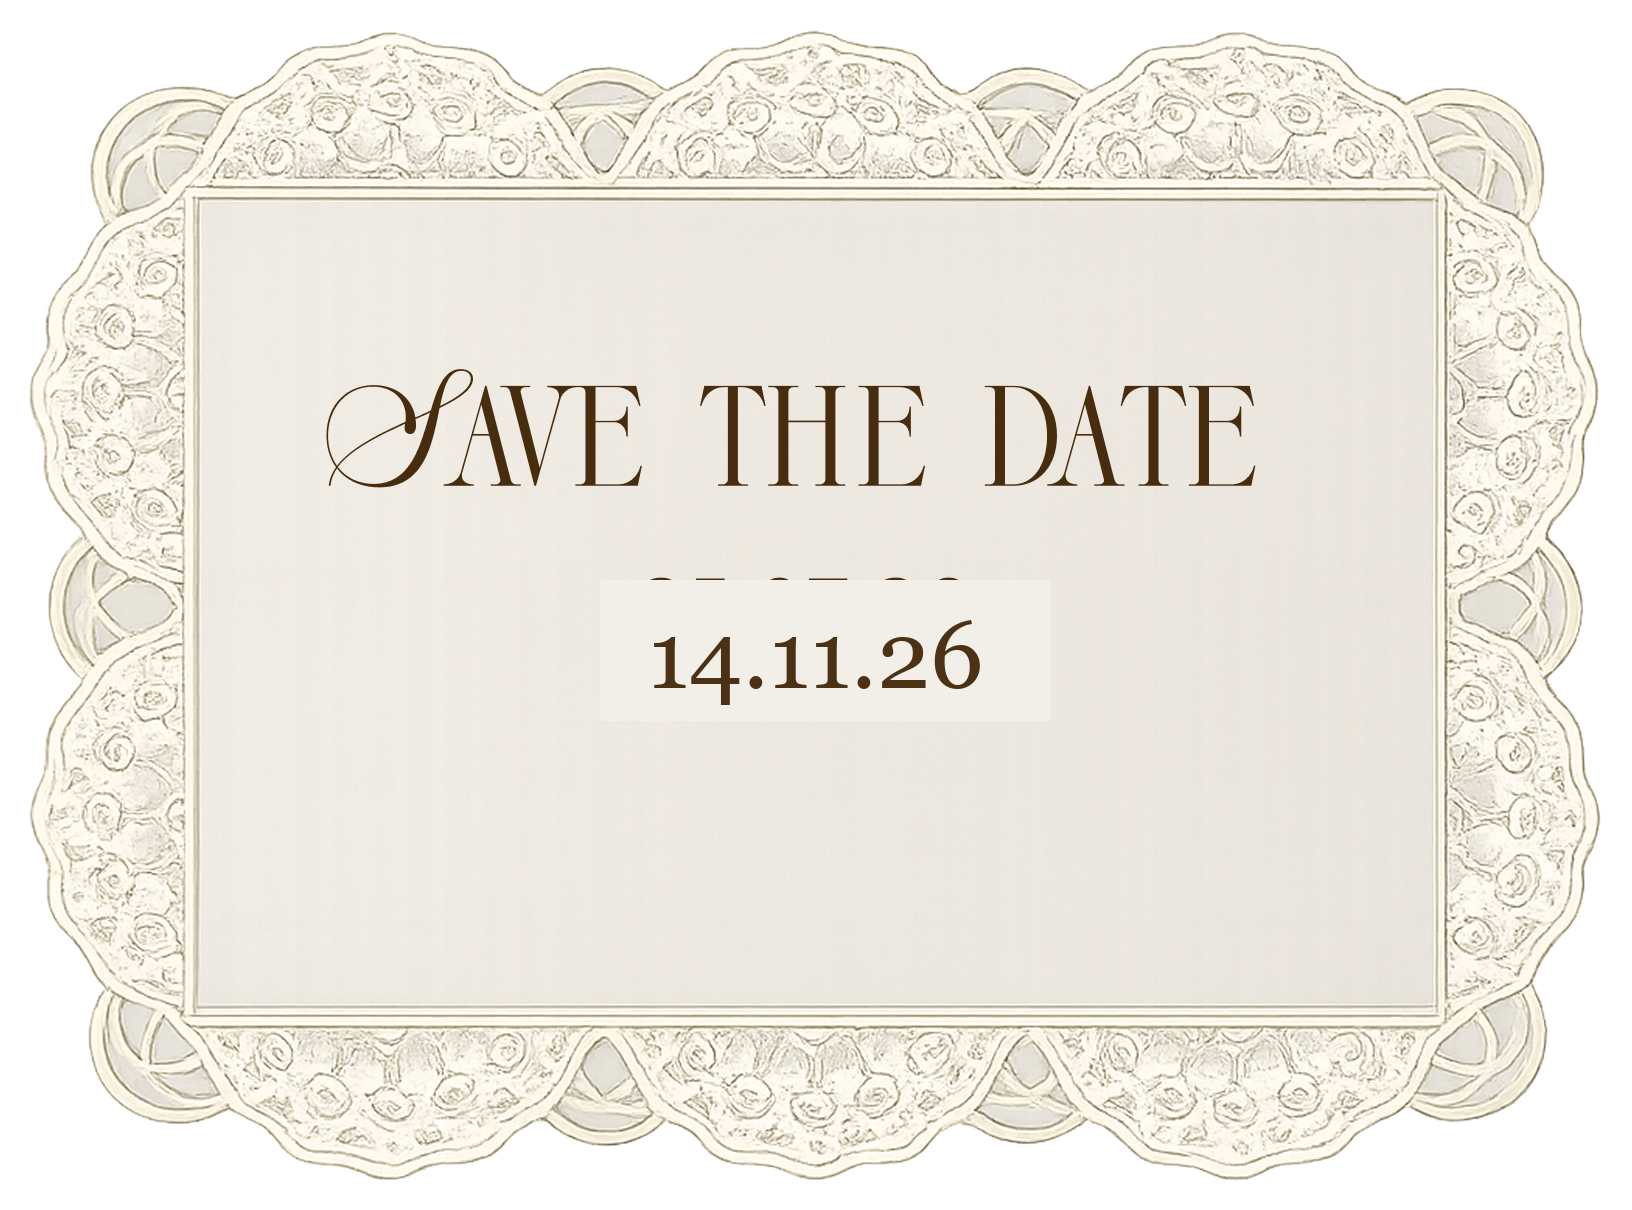
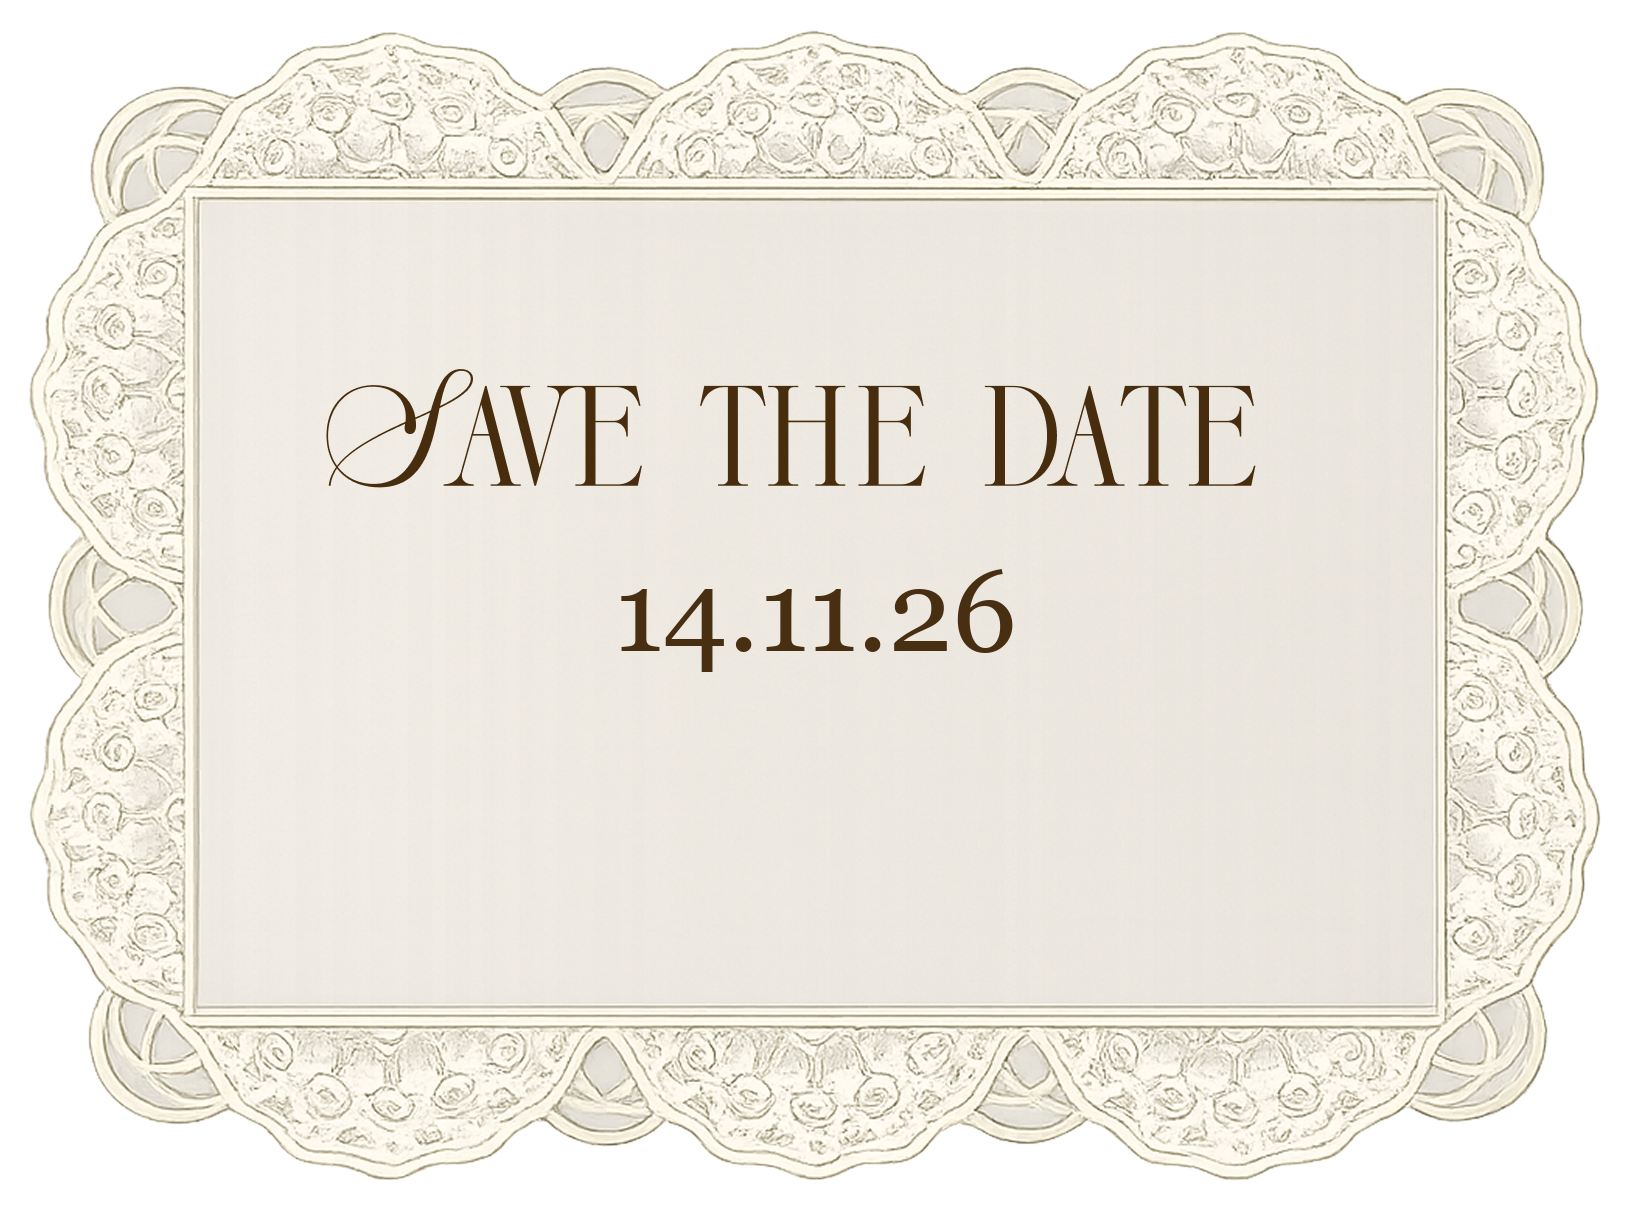
fix: remove all other envelope pics keeping only clean Save the Date card with seamless 14.11.26 date, and enlarge honour text

Changed region(s): [[0.375, 0.4587, 0.625, 0.581]]

diff --git a/app/globals.css b/app/globals.css
@@ -80,9 +80,9 @@ a { color: inherit; text-decoration: none; }
 .count-tile { display: flex; align-items: center; justify-content: center; width: 64px; height: 64px; border-radius: 6px; background: var(--card); box-shadow: 0 2px 10px rgba(90,58,26,.08); }
 .count-tile span { font-family: 'BrownBulgary', 'Sedan', serif; letter-spacing: .02em; font-size: 24px; line-height: 1.3333; animation: tile-pulse .35s ease; }
 .count-label { margin-top: 8px; font-size: 10px; letter-spacing: .2em; opacity: .7; }
-.wishes-section { position: relative; z-index: 2; margin: 48px auto 0; max-width: 292px; }
+.wishes-section { position: relative; z-index: 2; margin: 48px auto 0; max-width: 360px; }
 .wishes-section > p { margin-top: 24px; font-size: 11px; line-height: 1.625; letter-spacing: .15em; text-align: center; }
-.honour-text { font-style: italic; font-size: 12.5px !important; letter-spacing: .04em !important; opacity: .85; }
+.honour-text { font-style: italic; font-size: 16.5px !important; line-height: 1.55 !important; letter-spacing: .02em !important; opacity: .95; color: var(--foreground); margin-top: 28px !important; margin-bottom: 8px; }
 .dua { position: relative; margin-top: 48px; margin-bottom: 16px; padding-inline: 16px; display: flex; justify-content: center; }
 .dua img { width: 100%; max-width: 360px; }
 .envelope { position: relative; width: 100%; max-width: 420px; margin: 64px auto 0; }
@@ -92,12 +92,7 @@ a { color: inherit; text-decoration: none; }
 .envelope-front { transform: translateY(30%); pointer-events: none; transition-delay: .6s; }
 .envelope-piece { position: absolute; opacity: 0; transition: opacity 1s, transform 1.2s cubic-bezier(.2,.7,.2,1); }
 .envelope-piece img { width: 100%; user-select: none; filter: drop-shadow(0 10px 18px rgba(60,35,15,.25)); animation: float 5s ease-in-out infinite; }
-.tilted { left: -4%; top: 6%; width: 42%; transform: translateX(-60px) rotate(-18deg); transition-delay: .15s; }
-.oval { left: 28%; top: 2%; width: 40%; transform: translateY(-20px) scale(.85); transition-delay: .25s; }
-.oval img { animation-delay: -.8s; filter: drop-shadow(0 12px 22px rgba(60,35,15,.3)); }
-.badge { right: -2%; top: 8%; width: 44%; transform: scale(.6) rotate(-15deg); transition-delay: .35s; }
-.badge img { animation-delay: -1.6s; }
-.date-card { left: 50%; top: 26%; width: 78%; margin-left: -39%; transform: translateY(40px); transition-delay: .45s; }
+.date-card { left: 50%; top: 20%; width: 84%; margin-left: -42%; transform: translateY(40px); transition-delay: .45s; }
 .date-card img { animation-delay: -2.4s; filter: drop-shadow(0 18px 24px rgba(60,35,15,.3)); }
 .revealed .envelope-layer, .revealed .envelope-piece { opacity: 1; transform: none; }
 .revealed .tilted { transform: rotate(-8deg); }
@@ -136,6 +131,7 @@ a { color: inherit; text-decoration: none; }
  .lace-panel { width: 120%; margin-inline: -10%; }
  .event-content { padding-inline: 40px; }
  .location, .wishes-section { max-width: 380px; }
+ .honour-text { font-size: 18.5px !important; }
  .invitation-button { font-size: 16px; }
  .countdown { gap: 20px; }
  .count-tile { width: 80px; height: 80px; }

diff --git a/app/page.tsx b/app/page.tsx
@@ -62,9 +62,6 @@ function Envelope() {
   }, []);
   return <section ref={ref} className={`envelope ${visible ? 'revealed' : ''}`} aria-label="Save the date keepsake"><div className="envelope-scene">
     <img className="envelope-layer envelope-back" src={asset('envelope-back')} alt="" />
-    <div className="envelope-piece tilted"><img src={asset('envelope-photo-tilt')} alt="White roses flatlay" /></div>
-    <div className="envelope-piece oval"><img src={asset('envelope-photo-oval')} alt="Nikkah marriage contract" /></div>
-    <div className="envelope-piece badge"><img src={asset('envelope-badge')} alt="Nihal &amp; Aqila badge" /></div>
     <div className="envelope-piece date-card"><img src={asset('envelope-card')} alt="Save the Date 14.11.26" /></div>
     <img className="envelope-layer envelope-front" src={asset('envelope-front')} alt="" />
   </div></section>;
